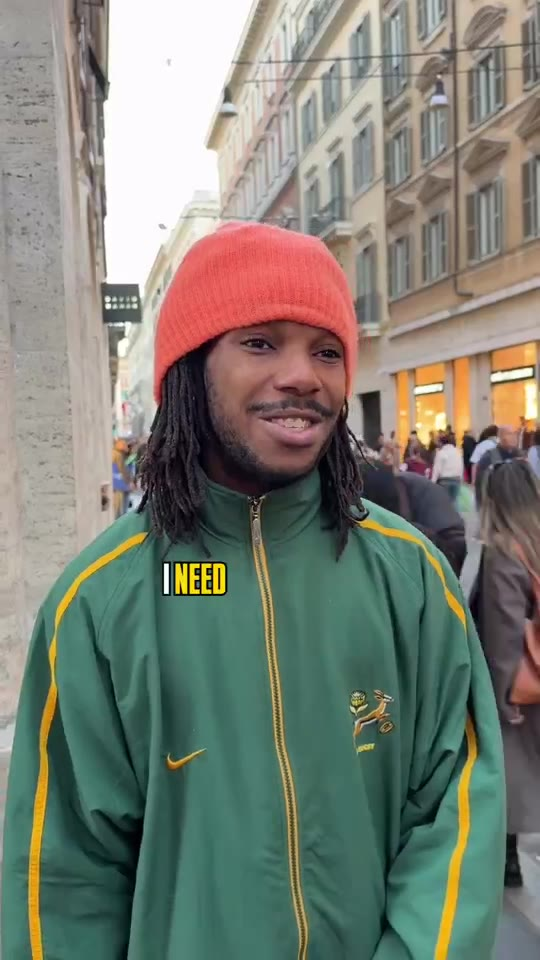
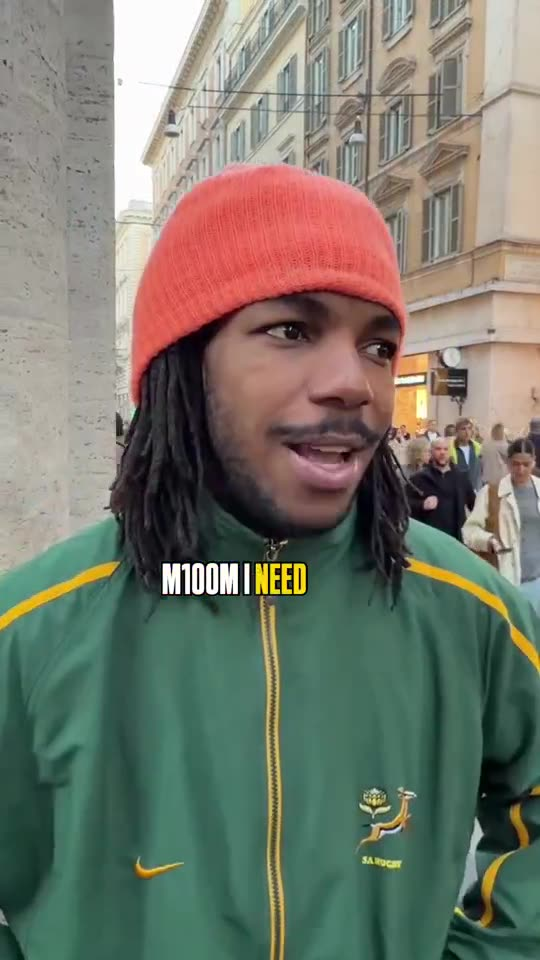
Site: reviews slider, Masha first, tab title 1,01³⁶⁵ ≈ 37,78
Claude-Session: https://claude.ai/code/session_017tCMnbDd2Xu9b1bTgGDKXw

diff --git a/index.html b/index.html
@@ -3,7 +3,7 @@
 <head>
 <meta charset="utf-8">
 <meta name="viewport" content="width=device-width, initial-scale=1">
-<title>×37: щоденні челенджі за формулою +1% від Толу</title>
+<title>1,01³⁶⁵ ≈ 37,78</title>
 <meta name="description" content="Щоденні челенджі в Telegram за m100M і формулою Бернуллі: +1% щодня це ×37 за рік. Рівні m, 100 і M, свій челендж, Компанія з друзями, чат однодумців. Від Толу.">
 <meta name="keywords" content="×37, x37, челенджі, щоденні челенджі, формула Бернуллі, +1% щодня, m100M, звички, трекер звичок, Telegram бот, Толу, Tolu Omis">
 <meta name="author" content="Tolu Omis">
@@ -179,27 +179,29 @@ p,li{text-wrap:pretty}
 .c-items li{padding:18px 0;border-bottom:1px solid var(--line)}
 .c-items b{display:block;font:600 20px var(--disp);letter-spacing:-.02em}
 .c-items span{color:var(--mute);font-size:16px}
-.shots{display:grid;grid-template-columns:minmax(0,4fr) minmax(0,7fr);gap:20px;margin-top:48px;align-items:start}
+.shots{display:grid;grid-template-columns:minmax(0,4fr) minmax(0,7fr);gap:20px;margin-top:48px;align-items:center}
 .shots figure{margin:0}
-.shots>figure.vid{position:sticky;top:96px;max-width:360px}
+.shots>figure.vid{max-width:360px}
 .shots video{display:block;width:100%;height:auto;aspect-ratio:9/16;border-radius:12px;border:1px solid #DDD5C7;background:#0D1014}
-.shots .stack figure.masha{max-width:340px}
-.shots .stack figure.masha img{width:100%;background:#121820}
 .shots img{display:block;max-width:100%;height:auto;border-radius:12px;border:1px solid #DDD5C7;background:#0D1014}
-.shots .stack{display:grid;gap:12px;justify-items:start}
 @media(max-width:860px){.shots{grid-template-columns:minmax(0,1fr)}.shots>figure.vid{position:static;max-width:420px}}
-.shots .mchat{display:none}
-@media(max-width:860px){
-  .shots .stack picture.desk{display:none}
-  .shots .stack figure{width:100%}
-  .shots .mchat{display:flex;align-items:flex-end;gap:8px;background:#0D1014;border:1px solid #DDD5C7;border-radius:12px;padding:10px 10px 12px}
-  .shots .mchat.noava .av{display:none}
-  .shots .mchat .av{flex:none;width:28px;height:28px;border-radius:50%;background:radial-gradient(circle at 40% 40%,#8a8f96,#4a4e55);filter:blur(1.5px)}
-  .shots .mchat>div{display:grid;gap:6px;min-width:0}
-  .shots .mchat p{position:relative;margin:0;justify-self:start;background:#22252B;color:#E9EAEC;font:400 15px/1.4 var(--body);padding:9px 12px 12px;border-radius:16px;overflow-wrap:anywhere}
-  .shots .mchat p i{position:absolute;left:4px;bottom:-9px;font-style:normal;font-size:11px;background:#22252B;border:2px solid #0D1014;border-radius:10px;padding:0 5px;line-height:16px}
-  .shots .mchat p:has(i){margin-bottom:8px}
-}
+.feed{display:grid;gap:14px;min-width:0}
+.feed .slides{display:flex;align-items:flex-start;transition:height .4s ease;overflow-x:auto;scroll-snap-type:x mandatory;scroll-behavior:smooth;scrollbar-width:none;background:#0D1014;border:1px solid #DDD5C7;border-radius:12px}
+.feed .slides::-webkit-scrollbar{display:none}
+.feed .slide{flex:0 0 100%;scroll-snap-align:start;display:flex;flex-direction:column;justify-content:center;padding:22px 20px 24px;box-sizing:border-box}
+.feed .msg{display:flex;align-items:flex-end;gap:8px}
+.feed .av{flex:none;width:30px;height:30px;border-radius:50%;background:radial-gradient(circle at 40% 38%,#9aa0a8,#454a52);filter:blur(1.6px)}
+.feed .col{min-width:0;max-width:min(540px,92%)}
+.feed p{position:relative;margin:0;background:#22252B;color:#E9EAEC;font:400 15px/1.45 var(--body);padding:10px 13px 12px;border-radius:16px 16px 16px 4px;overflow-wrap:anywhere;white-space:pre-line}
+.feed p i{position:absolute;left:6px;bottom:-11px;font-style:normal;font-size:11px;background:#22252B;border:2px solid #0D1014;border-radius:10px;padding:0 5px;line-height:16px}
+.feed small{display:block;margin:16px 0 0 38px;max-width:min(540px,85%);color:#8E949C;font:400 13px/1.5 var(--body)}
+.feed .fctl{display:flex;align-items:center;gap:10px}
+.feed .fbtn{width:36px;height:36px;border-radius:50%;border:1px solid #DDD5C7;background:transparent;color:var(--ink);font:400 20px/1 var(--body);cursor:pointer;display:grid;place-items:center;padding:0}
+.feed .fbtn:hover{background:#EDE7DC}
+.feed .fdots{display:flex;gap:8px}
+.feed .fdots button{width:8px;height:8px;padding:0;border:0;border-radius:50%;background:#DDD5C7;cursor:pointer}
+.feed .fdots button[aria-current="true"]{background:#C86A3B}
+.feed .fbtn:focus-visible,.feed .fdots button:focus-visible{outline:2px solid #C86A3B;outline-offset:2px}
 .shots figcaption{margin-top:10px;color:var(--mute);font-size:14px;line-height:1.5}
 .shots figcaption:empty{display:none}
 @media(max-width:860px){.c-layout{grid-template-columns:minmax(0,1fr)}}
@@ -363,12 +365,10 @@ p,li{text-wrap:pretty}
         <p class="c-safe" data-t="c_safe"></p>
         <ul class="c-items" id="c-items"></ul>
       </div>
-      <!-- Сітка під реальні скріншоти переписок (поки прихована, щоб не було порожнечі).
-           Нові скріни додавай сюди ж окремими <figure>, напр.:
-           <figure><img src="img/chats/01.webp" alt="Переписка в чаті ×37" loading="lazy"></figure> -->
+      <!-- Відгуки: масив REV у скрипті, текст дослівно. -->
       <div class="shots" id="shots">
         <figure class="vid"><video src="img/reviews/street.mp4" poster="img/reviews/street-poster.jpg" controls playsinline preload="none" width="540" height="960" aria-label="Вуличне інтервʼю: «I need to start making decisions that make me feel free»"></video></figure>
-        <div class="stack"><figure><div class="mchat" aria-hidden="true"><span class="av"></span><div><p>Смотрю постоянно<br>Не смотря на то, что моя жизнь очень скучная , как будто тоже хочу сделать такое<i>❤</i></p></div></div><picture class="desk"><source srcset="img/reviews/rev-smotryu.webp" type="image/webp"><img src="img/reviews/rev-smotryu.png" alt="Відгук з переписки" width="637" height="101" loading="lazy" decoding="async"></picture><figcaption data-t="rev_smotryu"></figcaption></figure><figure><div class="mchat" aria-hidden="true"><span class="av"></span><div><p>Вчора дивилась наш з тобою батл на Адрегаліне… ти там зовсім інший… я прям про це подумала. Цікаво як тіло змінюється від різних навантажень та часу… підтримую твою активність! Мотивує<i>❤</i></p></div></div><picture class="desk"><source srcset="img/reviews/rev-adrenalin.webp" type="image/webp"><img src="img/reviews/rev-adrenalin.png" alt="Відгук з переписки" width="637" height="101" loading="lazy" decoding="async"></picture><figcaption data-t="rev_adrenalin"></figcaption></figure><figure><div class="mchat" aria-hidden="true"><span class="av"></span><div><p>мне прям оч нравится что он настоящий, залипательно<i>❤</i></p><p>я вот анализирую что мне нравится в контенте. нравится мне настоящесть и легкость<i>❤</i></p></div></div><picture class="desk"><source srcset="img/reviews/rev-nastoyashchiy.webp" type="image/webp"><img src="img/reviews/rev-nastoyashchiy.png" alt="Відгук з переписки" width="637" height="129" loading="lazy" decoding="async"></picture><figcaption data-t="rev_nastoyashchiy"></figcaption></figure><figure><div class="mchat noava" aria-hidden="true"><span class="av"></span><div><p>Ходить в зал?)<br>Я всем говорю что это ты виноват)</p></div></div><picture class="desk"><source srcset="img/reviews/rev-zal.webp" type="image/webp"><img src="img/reviews/rev-zal.png" alt="Відгук з переписки" width="289" height="63" loading="lazy" decoding="async"></picture><figcaption data-t="rev_zal"></figcaption></figure><figure><div class="mchat" aria-hidden="true"><span class="av"></span><div><p>Толу джан, однознак соспортивкой твой материал залетает. До инфопродукта 3,2,1. Прям напрашивается где купить, куда подписаться.<i>❤</i></p></div></div><picture class="desk"><source srcset="img/reviews/rev-infoprodukt.webp" type="image/webp"><img src="img/reviews/rev-infoprodukt.png" alt="Відгук з переписки" width="637" height="76" loading="lazy" decoding="async"></picture><figcaption data-t="rev_infoprodukt"></figcaption></figure><figure class="masha"><picture><source srcset="img/reviews/masha.webp" type="image/webp"><img src="img/reviews/masha.png" alt="Відгук Маші Павлової в Telegram: робити хоча б трішки, але кожен день" width="640" height="755" loading="lazy" decoding="async"></picture><figcaption data-t="rev_masha"></figcaption></figure></div>
+        <div class="feed" id="feed" role="region" aria-roledescription="carousel"><div class="slides" id="feed-track"></div><div class="fctl"><button type="button" class="fbtn" id="feed-prev" aria-label="←">‹</button><div class="fdots" id="feed-dots"></div><button type="button" class="fbtn" id="feed-next" aria-label="→">›</button></div></div>
       </div>
     </div>
   </section>
@@ -478,7 +478,7 @@ const T = {
     nav_how:"Як це працює", nav_try:"Спробуй", nav_price:"Ціна",
     c_h:"Коло своїх.",
     c_safe:"Що там, лишається там. Тут не соромлять за слабкий день і не міряються успішним успіхом.",
-    rev_smotryu:"", rev_adrenalin:"", rev_nastoyashchiy:"", rev_zal:"", rev_infoprodukt:"", rev_masha:"", rev_alt:"Відгук Маші Павлової в Telegram: робити хоча б трішки, але кожен день",
+    rev_feed:"Повідомлення, які мені писали",
     c_items:[["Чат однодумців","Група з гілками: челенджі, загальне, компанія, ідеї."],
              ["Компанія","Створюєш свій челендж і кидаєш посилання друзям, до 5 людей. Щодня кожен підтверджує фото чи скріном, інші зараховують."]],
     p1:"+1% щодня", p2:"це ×37 за рік.",
@@ -542,9 +542,7 @@ const T = {
     nav_how:"How it works", nav_try:"Try it", nav_price:"Price",
     c_h:"Your people.",
     c_safe:"What's there stays there. Nobody shames you for a weak day here, and nobody competes in successful success.",
-    rev_smotryu:"“I watch all the time. Even though my life is very boring, I kind of want to do this too.”", rev_adrenalin:"“Yesterday I watched our battle at Adrenaline… you’re a whole different person there. Funny how the body changes with different loads and time. I support your activity! It motivates.”", rev_nastoyashchiy:"“I really like that he’s real, it’s addictive. What I like in content is realness and lightness.”", rev_zal:"“Going to the gym?) I tell everyone it’s your fault)”", rev_infoprodukt:"“Your sports material lands for sure. An info product in 3, 2, 1. It just begs for a place to buy or subscribe.”",
-    rev_masha:"Masha, in Ukrainian: Tolu's daily stories were a real example for me. In a personal chat I learned the secret: do at least a little, but every day. It really works, and I use this system too.",
-    rev_alt:"Masha Pavlova's review in Telegram, in Ukrainian",
+    rev_feed:"Messages people sent me",
     c_items:[["Like-minded chat","A group with topics: challenges, general, company, ideas."],
              ["Company","Create your own challenge and send the link to friends, up to 5 people. Every day everyone proves it with a photo or screenshot, the others accept it."]],
     p1:"+1% a day", p2:"is ×37 a year.",
@@ -703,11 +701,58 @@ function tickOffer() {
 const offerTimer = setInterval(() => { if ($("timer")) tickOffer(); }, 1000);
 
 /* ---------- мова ---------- */
+
+/* Відгуки: текст дослівно, як писали люди. tr = переклад під бульбашкою для іншої мови. */
+const REV = [
+  { t: "Для мене стало великим прикладом і мотивацією Толу який постійно показував тренування і роботу над собою.\nЯ бачила сторіс майже кожен день і дивувалась як може бути стільки сил і наснаги щось робити.\nСекрет виявився доволі простим і в особистій рощмові я дізналась що головне «це робити хоча б трішки але кожен день».\nСьогодні немає настрою на довге тренування, то 15 хвилин - будуть ідеальні. Якщо дуже стомлений, то прогуляйся або зроби коплекс легкої розтяжки. Головне кожен день.\n\nЦе дійсно дає результат і цією системою я і користуюсь", r: "🔥",
+    en: "Tolu was a big example and motivation for me… The secret turned out to be simple: do at least a little, but every day. No mood for a long workout, then 15 minutes is perfect. Very tired, take a walk or stretch. It really gives results, and I use this system too." },
+  { t: "Смотрю постоянно\nНе смотря на то, что моя жизнь очень скучная , как будто тоже хочу сделать такое", r: "❤",
+    en: "I watch all the time. Even though my life is very boring, I kind of want to do this too." },
+  { t: "Вчора дивилась наш з тобою батл на Адрегаліне… ти там зовсім інший… я прям про це подумала. Цікаво як тіло змінюється від різних навантажень та часу… підтримую твою активність! Мотивує", r: "❤",
+    en: "Yesterday I watched our battle at Adrenaline… you’re a whole different person there. Funny how the body changes with different loads and time… I support your activity! It motivates." },
+  { t: "Consistency\nThat’s what caught my eye.\nThe thrive of doing something for yourself everyday.\nOf nothing getting controlled by the “I will do it tomorrow feeling”\n\nWe have so much time in our life.\nWe should be free to do whatever, but we should remember to di it wisely.", r: "❤" },
+  { t: "Ходить в зал?)\nЯ всем говорю что это ты виноват)", r: "",
+    en: "Going to the gym?) I tell everyone it’s your fault)" }
+];
+let feedL = "uk", feedI = 0, feedOn = !reduce, feedHover = false, feedSeen = false, feedT;
+const feedEl = $("feed"), feedTrack = $("feed-track");
+function bubble(x, lang) {
+  const tr = lang === "en" ? x.en : x.uk;
+  return `<div class="msg"><span class="av"></span><div class="col"><p>${esc(x.t)}${x.r ? `<i>${x.r}</i>` : ""}</p></div></div>${tr ? `<small>${esc(tr)}</small>` : ""}`;
+}
+function feedLang(l) {
+  feedL = l; feedEl.setAttribute("aria-label", T[l].rev_feed);
+  feedTrack.innerHTML = REV.map((x, i) => `<div class="slide" role="group" aria-roledescription="slide" aria-label="${i + 1} / ${REV.length}">${bubble(x, l)}</div>`).join("");
+  $("feed-dots").innerHTML = REV.map((_, i) => `<button type="button" data-i="${i}" aria-label="${i + 1}"${i === feedI ? ' aria-current="true"' : ""}></button>`).join("");
+  feedTrack.scrollLeft = feedI * feedTrack.clientWidth; feedFit();
+}
+function feedFit() { const s = feedTrack.children[feedI]; if (s) feedTrack.style.height = s.offsetHeight + 2 + "px"; }
+addEventListener("resize", feedFit);
+function feedGo(i) { feedI = (i + REV.length) % REV.length; feedTrack.scrollTo({ left: feedI * feedTrack.clientWidth }); feedFit(); feedSched(); }
+function feedSched() {
+  clearTimeout(feedT);
+  if (!feedOn || feedHover || !feedSeen) return;
+  feedT = setTimeout(() => feedGo(feedI + 1), Math.min(4500 + REV[feedI].t.length * 22, 13000));
+}
+feedTrack.addEventListener("scroll", () => {
+  const i = Math.round(feedTrack.scrollLeft / feedTrack.clientWidth);
+  if (i !== feedI) { feedI = i; feedSched(); feedFit(); }
+  $("feed-dots").querySelectorAll("button").forEach((b, k) => b.setAttribute("aria-current", k === feedI));
+}, { passive: true });
+$("feed-dots").addEventListener("click", (e) => { const b = e.target.closest("button"); if (b) feedGo(+b.dataset.i); });
+$("feed-prev").addEventListener("click", () => feedGo(feedI - 1));
+$("feed-next").addEventListener("click", () => feedGo(feedI + 1));
+feedTrack.addEventListener("mouseenter", () => { feedHover = true; feedSched(); });
+feedTrack.addEventListener("mouseleave", () => { feedHover = false; feedSched(); });
+feedTrack.addEventListener("touchstart", () => { feedHover = true; feedSched(); }, { passive: true });
+feedTrack.addEventListener("touchend", () => { feedHover = false; feedSched(); }, { passive: true });
+new IntersectionObserver(([en]) => { feedSeen = en.isIntersecting; feedSched(); }, { threshold: 0.5 }).observe(feedTrack);
+
 function setLang(l) {
   lang = l; try { localStorage.setItem("x37lang", l); } catch (e) {}
   const L = T[l];
   document.documentElement.lang = l === "uk" ? "uk" : "en";
-  document.title = l === "uk" ? "×37: щоденні челенджі за формулою +1% від Толу" : "×37: daily challenges on the +1% formula by Tolu";
+  document.title = "1,01³⁶⁵ ≈ 37,78";
   document.querySelector('meta[name="description"]').content = l === "uk" ? "Щоденні челенджі в Telegram за m100M і формулою Бернуллі: +1% щодня це ×37 за рік. Рівні m, 100 і M, свій челендж, Компанія з друзями, чат однодумців. Від Толу." : "Daily Telegram challenges built on m100M and Bernoulli's formula: +1% a day is ×37 a year. Levels m, 100 and M, your own challenge, Company with friends, a like-minded chat. By Tolu.";
   document.querySelectorAll("[data-t]").forEach((el) => { const v = L[el.dataset.t]; if (typeof v === "string") el.textContent = v; });
   document.querySelectorAll('[data-t="o_note"]').forEach((el) => { el.textContent = L.o_note(offerDate(l)); });
@@ -726,7 +771,7 @@ function setLang(l) {
     : `<p${i === 2 ? ' class="key"' : ""}>${esc(p)}</p>`).join("");
   $("how-intro").innerHTML = L.how.map(([i,h,c,p])=>`<div class="perk"><h3>${esc(h)}</h3><p>${esc(p)}</p></div>`).join("");
   $("inside").innerHTML = L.inside.map(([a, b, q]) => `<li${q ? ' class="essay"' : ""}><b>${esc(a)}</b><span>${esc(b)}</span>${q ? `<blockquote class="excerpt">${q.split("\n\n").map((x) => `<p>${esc(x)}</p>`).join("")}</blockquote>` : ""}</li>`).join("");
-  document.querySelectorAll("#shots figure.masha img").forEach((im) => { im.alt = L.rev_alt; });
+  feedLang(l);
   $("c-items").innerHTML = L.c_items.map(([a, b]) => `<li><b>${esc(a)}</b><span>${esc(b)}</span></li>`).join("");
   $("steps").innerHTML = L.steps.map(([a, b]) => `<li><h3>${esc(a)}</h3>${b ? `<p>${esc(b)}</p>` : ""}</li>`).join("");
   $("legend2").innerHTML = ["m", "n", "x", "f", "s"].map((k) => `<span><i style="background:${COL[k]}"></i>${esc(L.lg[k])}</span>`).join("");
